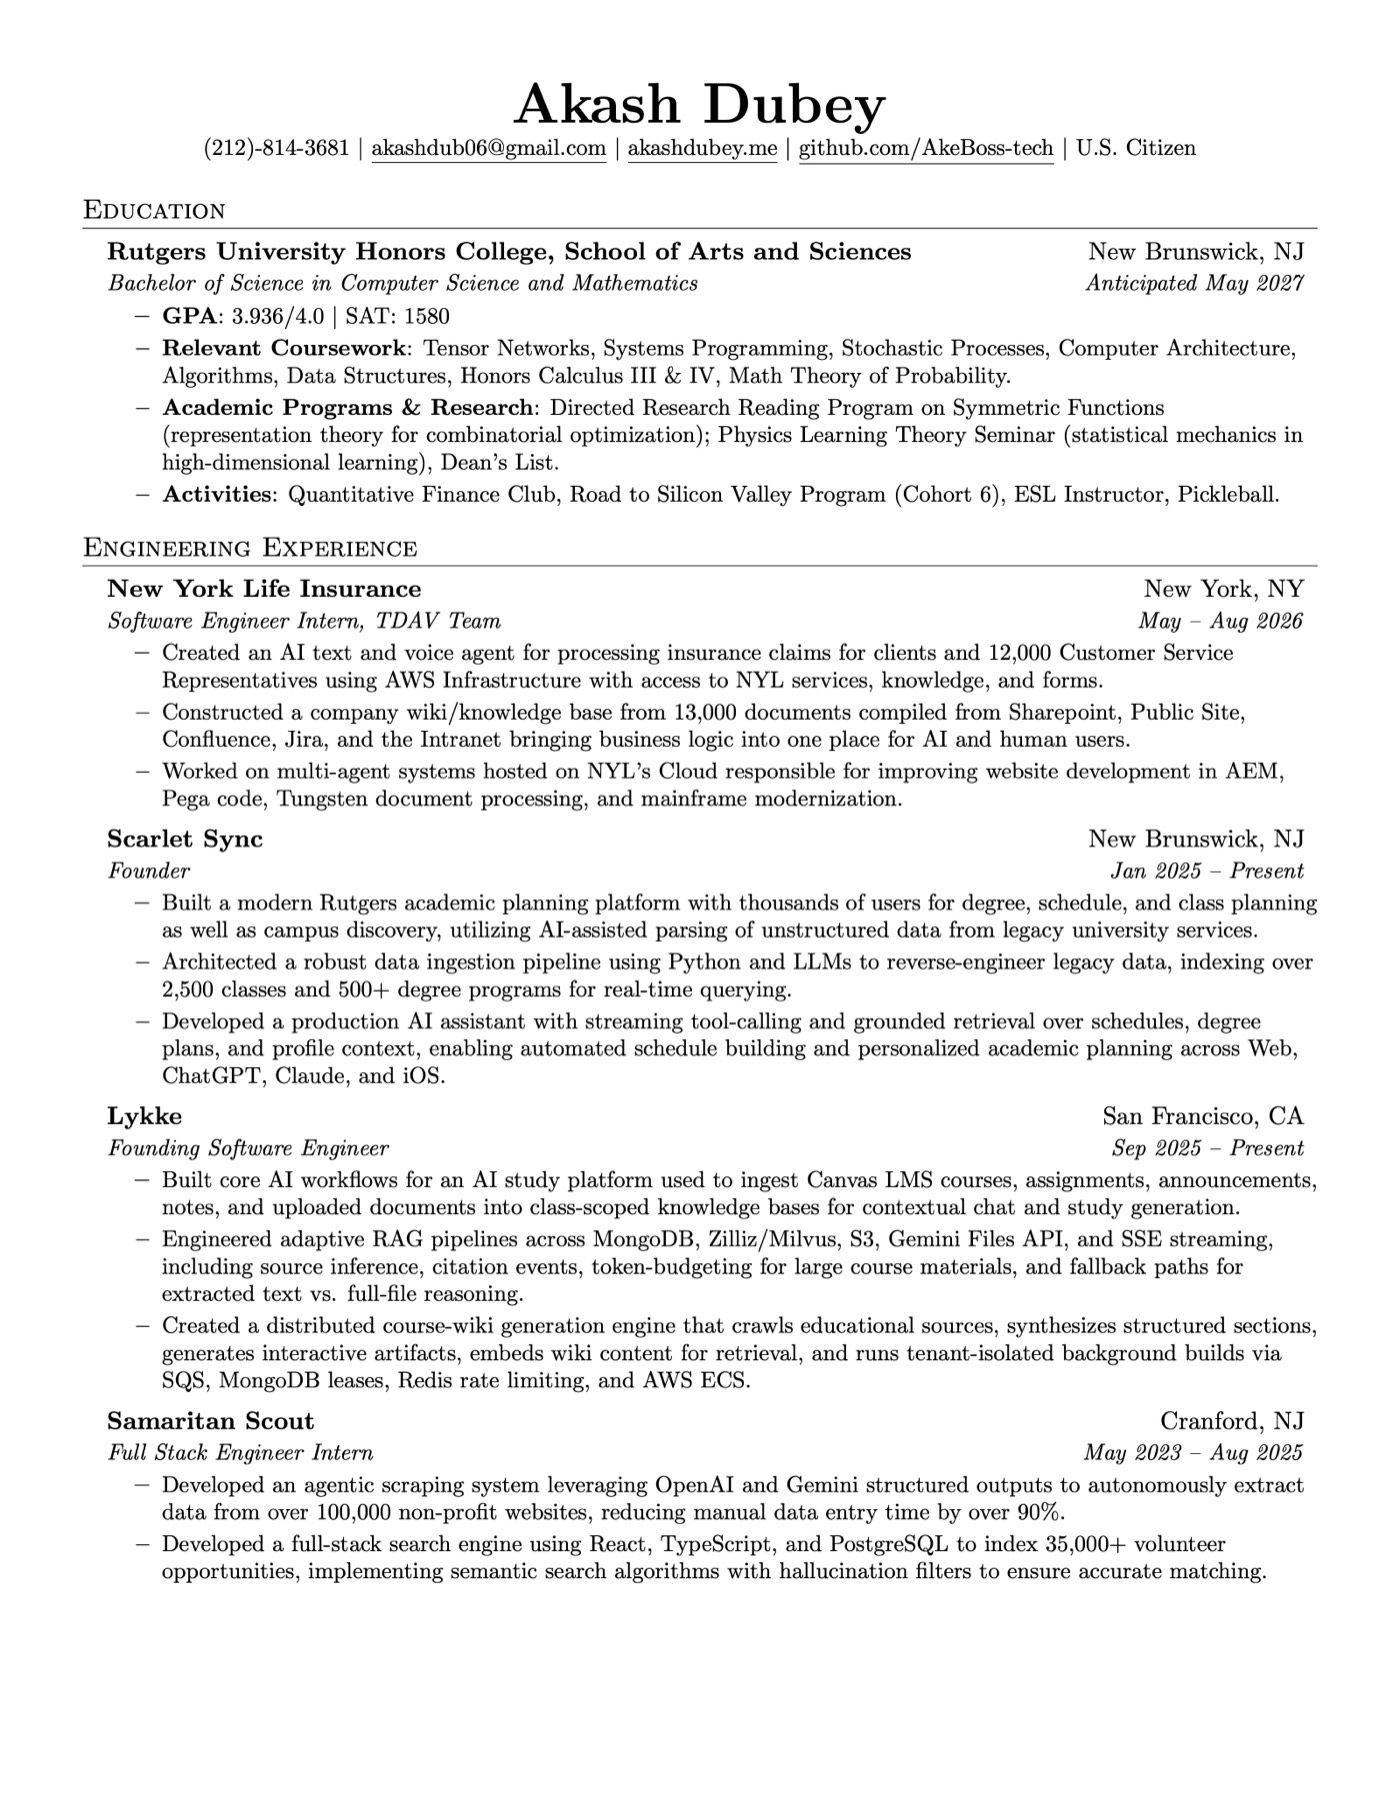
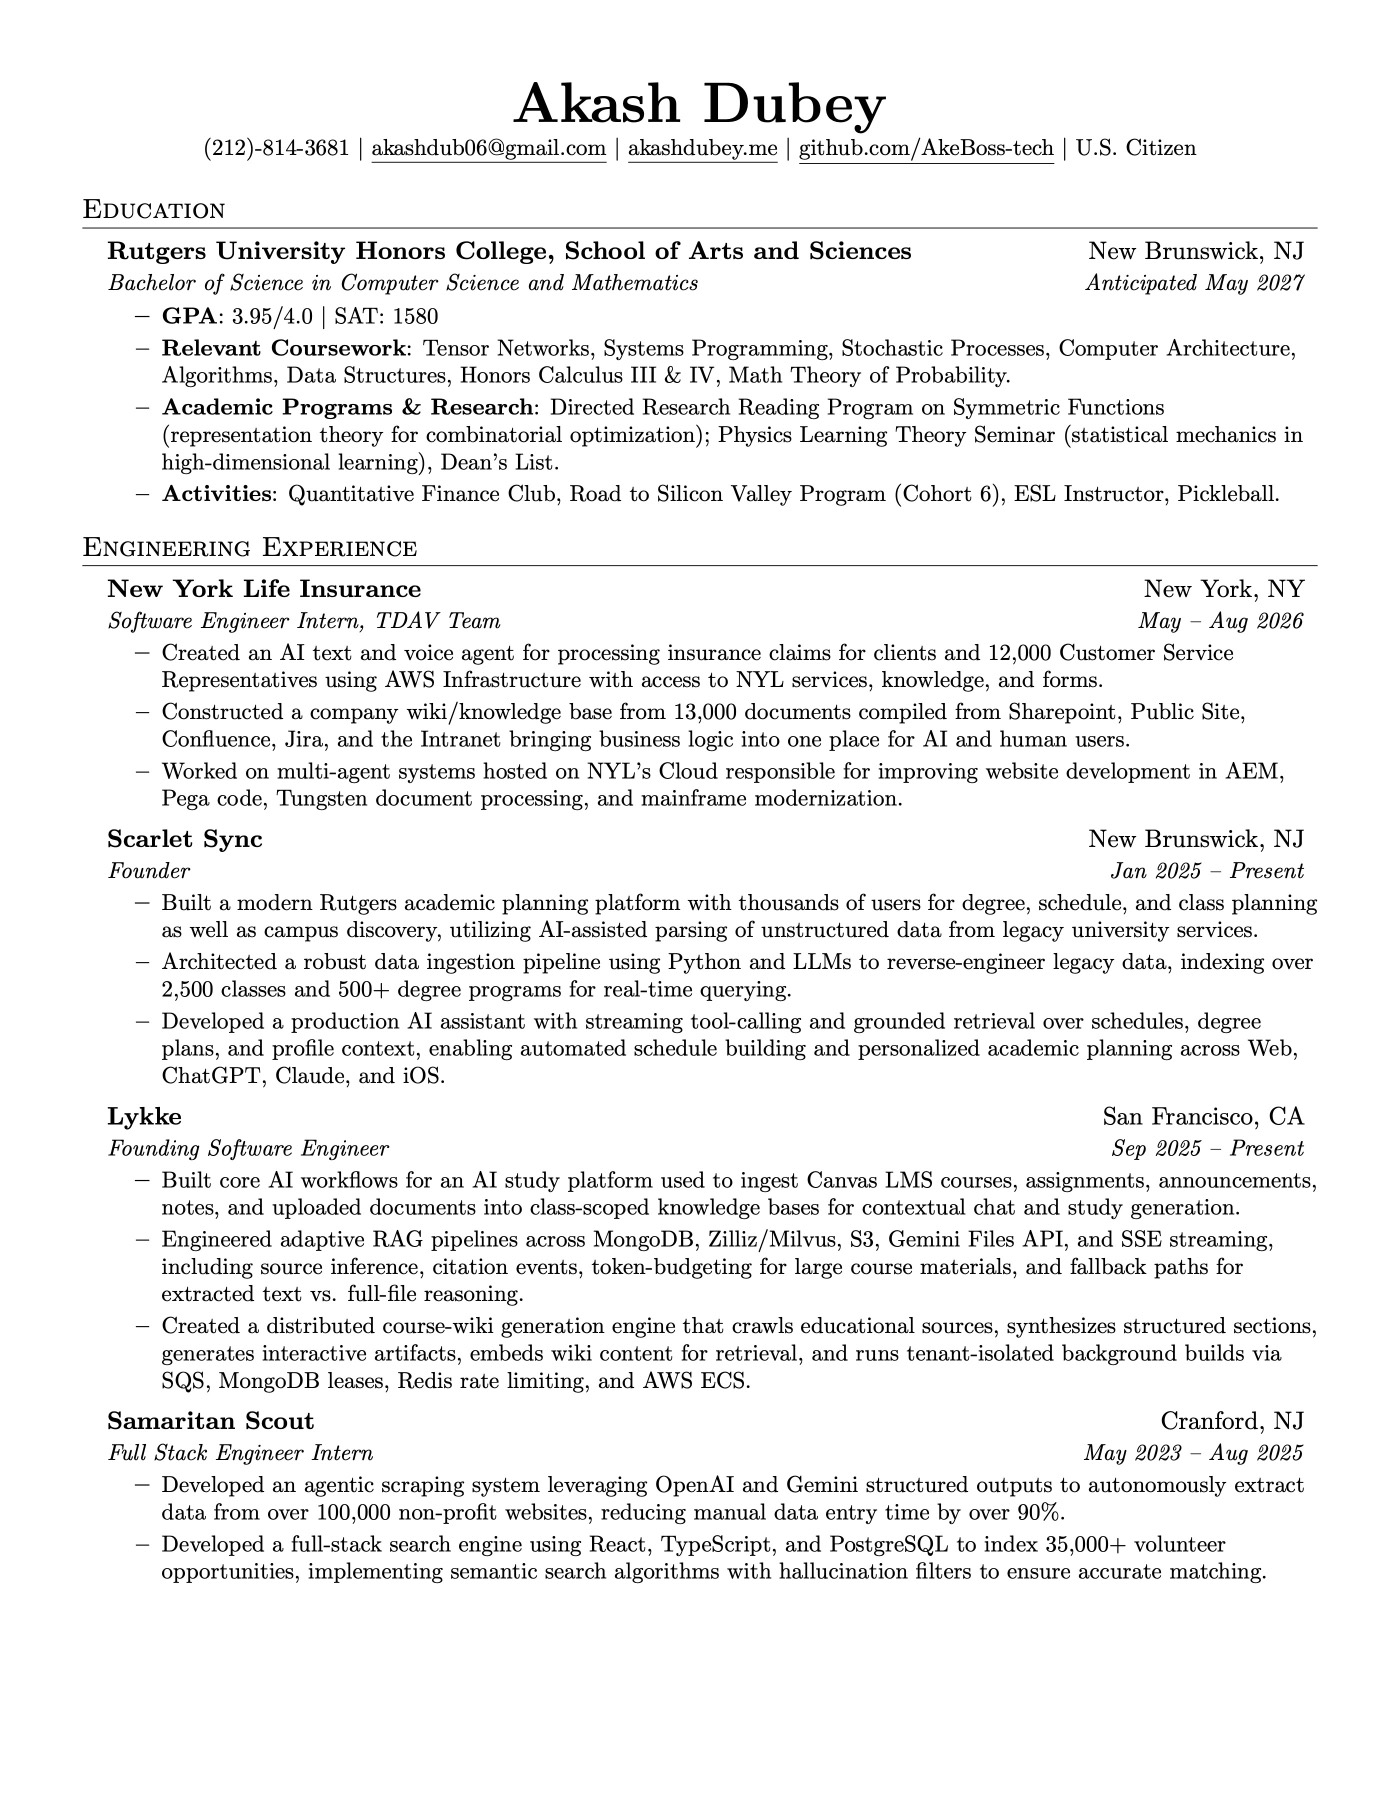
Render resume previews from the committed resume PDF
The previews were generated from an uncommitted local edit; regenerate
them from the published PDF so the page and the download match. The
preview script now takes an optional PDF path.

diff --git a/scripts/build-resume-preview.swift b/scripts/build-resume-preview.swift
@@ -1,10 +1,10 @@
 // Renders each page of files/resume.pdf to images/resume/resume-page-N.jpg
 // for the /resume page preview. Run after updating the PDF (macOS only):
-//   swift scripts/build-resume-preview.swift
+//   swift scripts/build-resume-preview.swift [path/to/resume.pdf]
 import AppKit
 import PDFKit
 
-let source = URL(fileURLWithPath: "files/resume.pdf")
+let source = URL(fileURLWithPath: CommandLine.arguments.count > 1 ? CommandLine.arguments[1] : "files/resume.pdf")
 let outDir = URL(fileURLWithPath: "images/resume", isDirectory: true)
 try? FileManager.default.createDirectory(at: outDir, withIntermediateDirectories: true)
 
